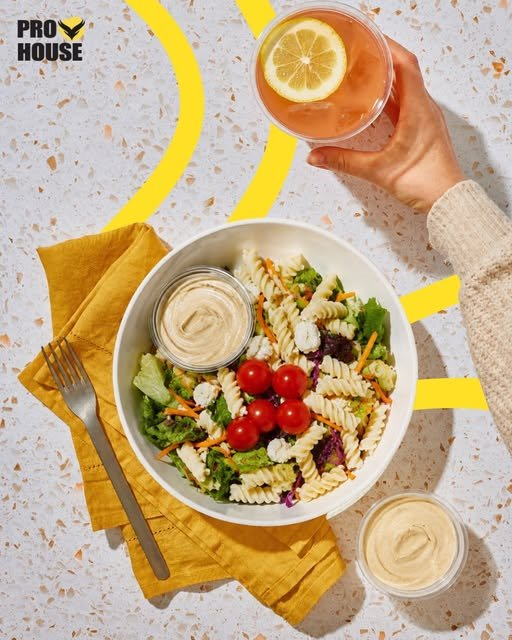
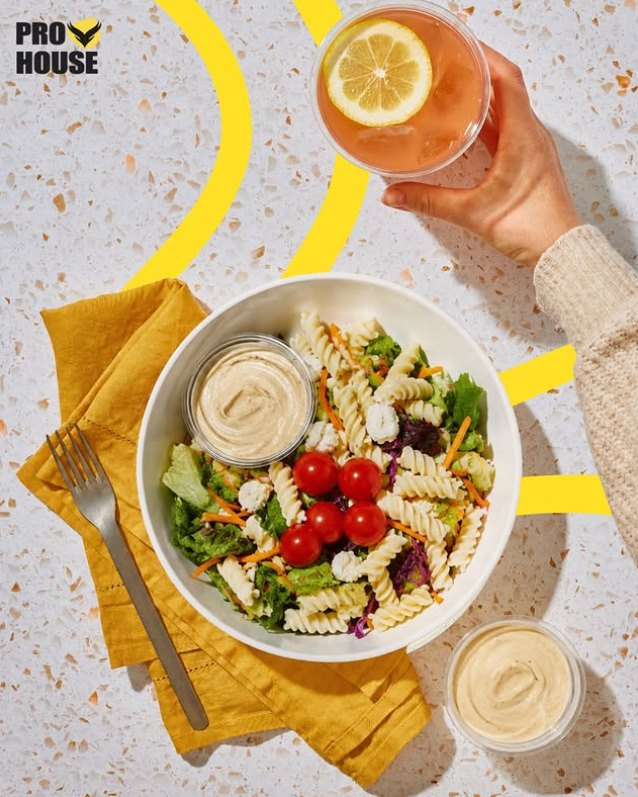
Upgrade photography to the higher-resolution sources
Replaces the Instagram CDN thumbnails with the files supplied directly.

- Story: the full table spread (798x792) — the only shot with no logo
  and no overlay anywhere in it, so it runs uncropped.
- Hero AR: salad and lemonade, 638x797 (was 512x640).
- Hero EN: steak board, headline band cropped, 635x572.
- Share card rebuilt around the table spread.
- Dropped four images left over from the identity PDF; nothing references them.

diff --git a/index.html b/index.html
@@ -89,7 +89,7 @@
       </div>
 
       <div class="hero-media reveal d1">
-        <img src="assets/brand/food-hero-ar.jpg" alt="سلطة مكرونة طازجة مع ليموناضة من برو هاوس" width="512" height="640" fetchpriority="high">
+        <img src="assets/brand/food-hero-ar.jpg" alt="سلطة مكرونة طازجة مع ليموناضة من برو هاوس" width="638" height="797" fetchpriority="high">
         <p class="hero-badge">وجبات طازجة تُحضَّر يوميًا</p>
       </div>
     </div>
@@ -108,7 +108,7 @@
   <section id="story" class="band-cream">
     <div class="wrap story">
       <div class="story-media reveal">
-        <img src="assets/brand/food-story.jpg" alt="أطباق دجاج وأرز من برو هاوس" width="512" height="472" loading="lazy">
+        <img src="assets/brand/food-story.jpg" alt="سفرة من أطباق برو هاوس: ساندويتشات، مكرونة، أرز، وسلطة" width="798" height="792" loading="lazy">
       </div>
       <div class="reveal d1">
         <span class="eyebrow">قصتنا</span>

diff --git a/en/index.html b/en/index.html
@@ -86,7 +86,7 @@
       </div>
 
       <div class="hero-media wide reveal d1">
-        <img src="../assets/brand/food-hero-en.jpg" alt="Grilled steak with mashed potato from Pro House" width="512" height="465" fetchpriority="high">
+        <img src="../assets/brand/food-hero-en.jpg" alt="Grilled steak with mashed potato on a wooden board" width="635" height="572" fetchpriority="high">
         <p class="hero-badge">Freshly prepared, every day.</p>
       </div>
     </div>
@@ -105,7 +105,7 @@
   <section id="story" class="band-cream">
     <div class="wrap story">
       <div class="story-media reveal">
-        <img src="../assets/brand/food-story.jpg" alt="Chicken and rice plates from Pro House" width="512" height="472" loading="lazy">
+        <img src="../assets/brand/food-story.jpg" alt="A spread of Pro House dishes: sandwiches, pasta, rice and salad" width="798" height="792" loading="lazy">
       </div>
       <div class="reveal d1">
         <span class="eyebrow">Our story</span>
